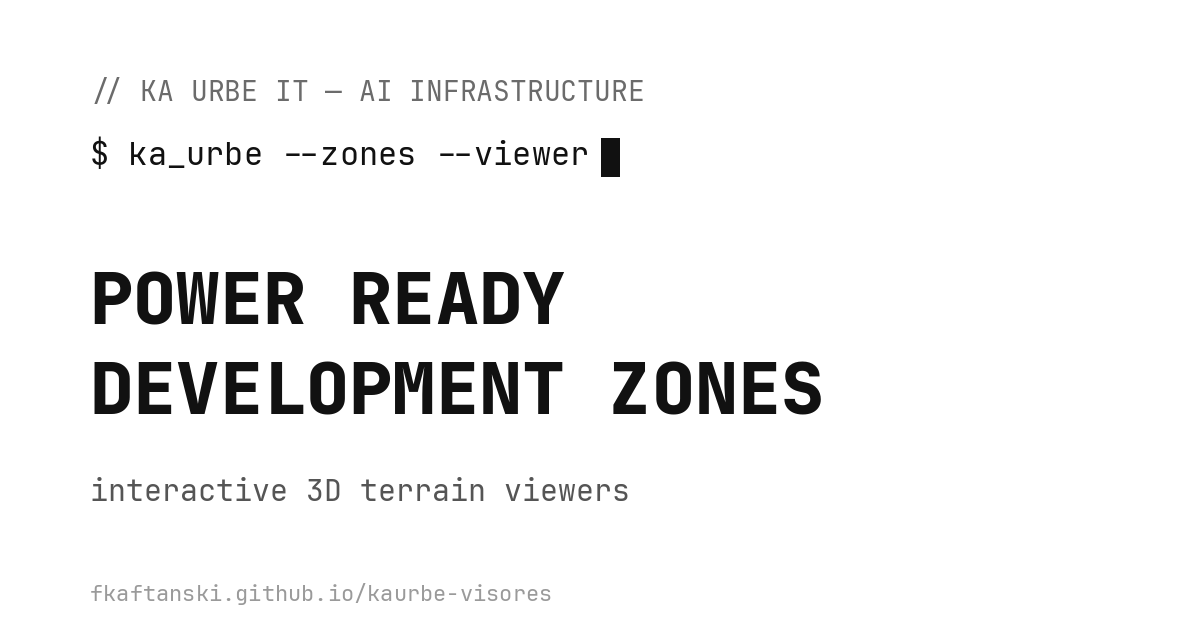
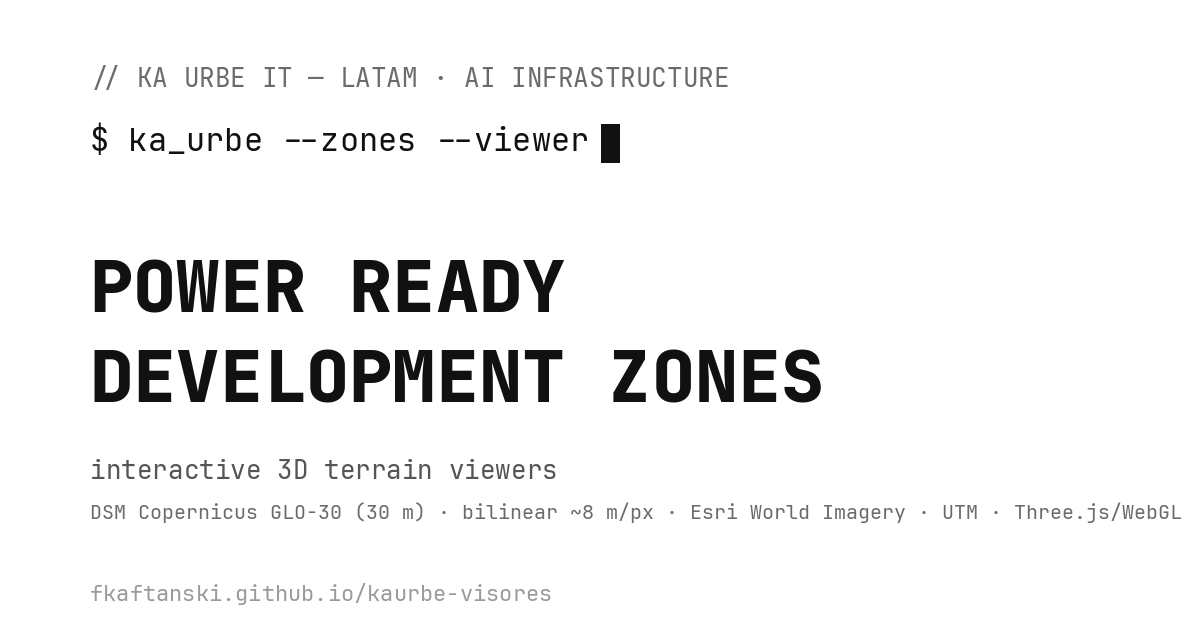
Add LATAM branding + technical render methodology to preview

diff --git a/index.html b/index.html
@@ -3,18 +3,18 @@
 <head>
 <meta charset="UTF-8">
 <meta name="viewport" content="width=device-width, initial-scale=1.0">
-<title>3D Viewers · KA URBE IT</title>
+<title>3D Viewers · KA URBE IT LATAM</title>
 <link rel="icon" type="image/svg+xml" href="favicon.svg">
-<meta name="description" content="Power Ready Development Zones — interactive 3D terrain viewers of data center sites by KA URBE IT.">
+<meta name="description" content="KA URBE IT LATAM — Power Ready Development Zones: interactive 3D terrain viewers. Terrain mesh from Copernicus GLO-30 DSM (30 m native) resampled bilinear to ~8 m/px, textured with Esri World Imagery or drone orthomosaic, georeferenced in UTM, rendered with Three.js/WebGL.">
 <meta property="og:type" content="website">
-<meta property="og:site_name" content="KA URBE IT">
-<meta property="og:title" content="KA URBE IT · 3D Viewers">
-<meta property="og:description" content="Power Ready Development Zones — interactive 3D terrain viewers of data center sites.">
+<meta property="og:site_name" content="KA URBE IT LATAM">
+<meta property="og:title" content="KA URBE IT LATAM · 3D Viewers">
+<meta property="og:description" content="Power Ready Development Zones — interactive 3D terrain viewers. Terrain mesh from Copernicus GLO-30 DSM (30 m native) resampled bilinear to ~8 m/px, textured with Esri World Imagery or drone orthomosaic, georeferenced in UTM, rendered with Three.js/WebGL.">
 <meta property="og:image" content="https://fkaftanski.github.io/kaurbe-visores/og-image.png">
 <meta property="og:url" content="https://fkaftanski.github.io/kaurbe-visores/">
 <meta name="twitter:card" content="summary_large_image">
-<meta name="twitter:title" content="KA URBE IT · 3D Viewers">
-<meta name="twitter:description" content="Power Ready Development Zones — interactive 3D terrain viewers of data center sites.">
+<meta name="twitter:title" content="KA URBE IT LATAM · 3D Viewers">
+<meta name="twitter:description" content="Power Ready Development Zones — interactive 3D terrain viewers. Terrain mesh from Copernicus GLO-30 DSM (30 m native) resampled bilinear to ~8 m/px, textured with Esri World Imagery or drone orthomosaic, georeferenced in UTM, rendered with Three.js/WebGL.">
 <meta name="twitter:image" content="https://fkaftanski.github.io/kaurbe-visores/og-image.png">
 <style>
   :root{
